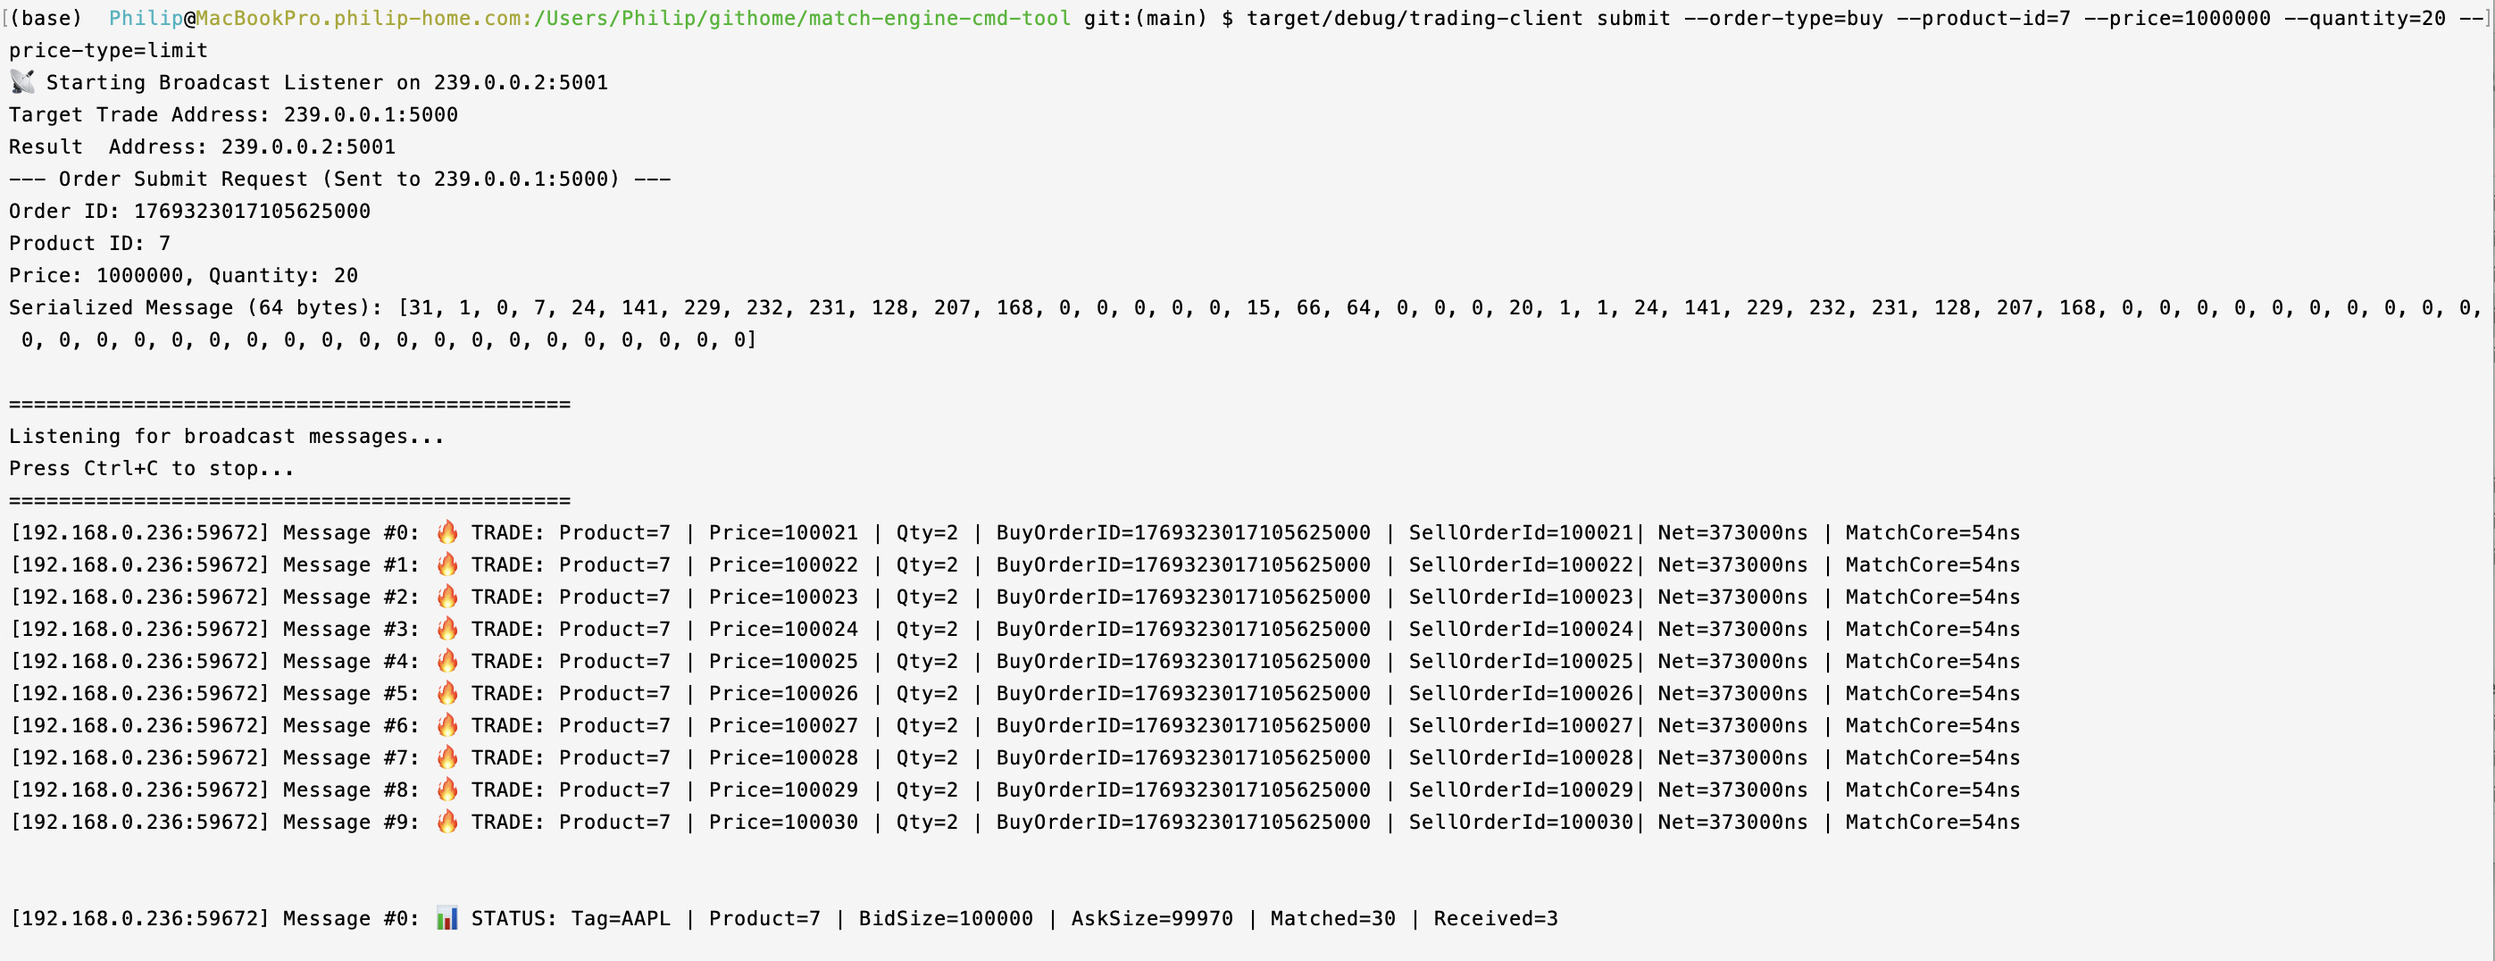
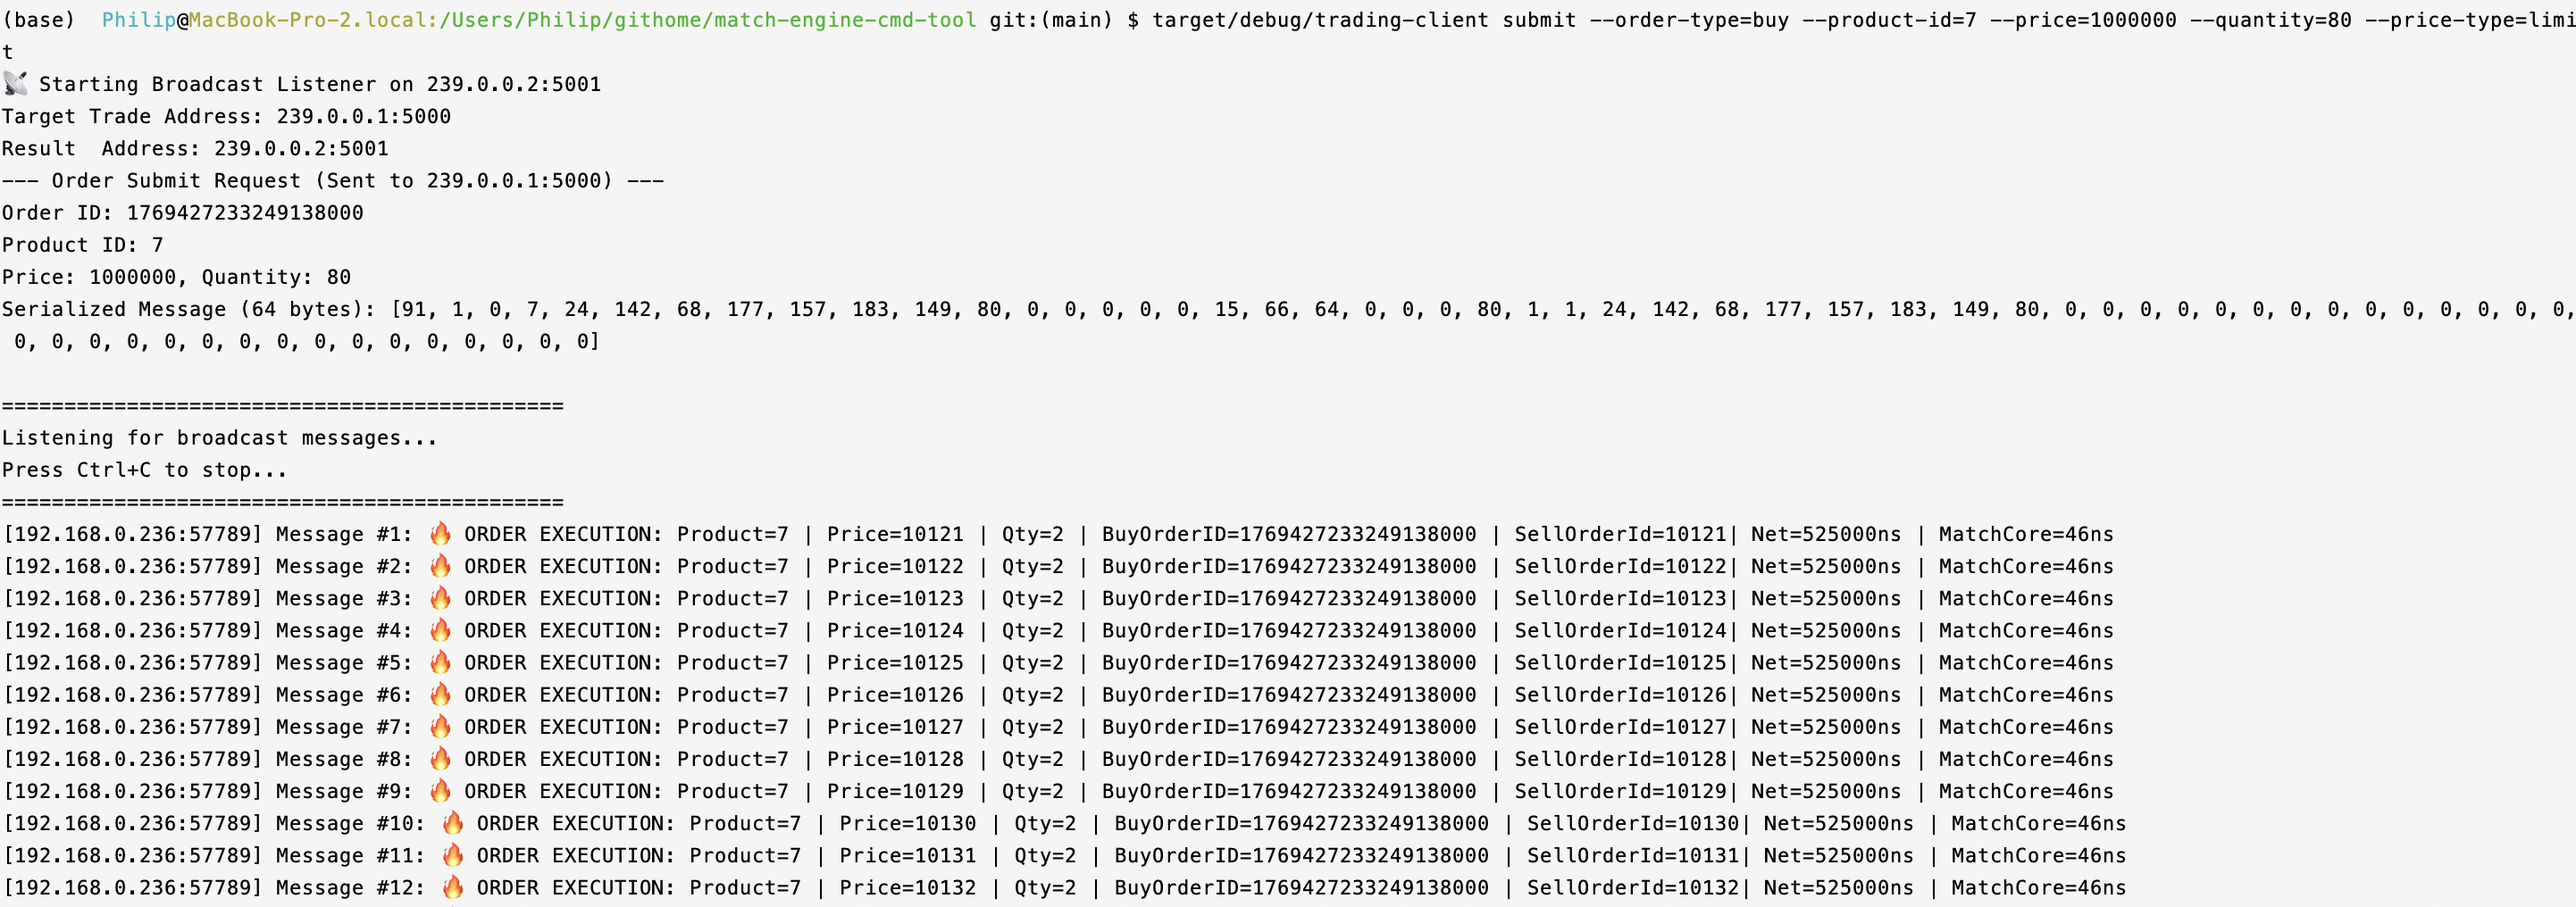
🚀fix terms on image

Changed region(s): [[0.0, 0.0, 1.0, 1.0]]

diff --git a/README.md b/README.md
@@ -59,7 +59,7 @@ Get up and running in minutes!
 
 ![test screen shot ](docs/test-screen-shot.png)
 
-  That's an internal match time(core-matching latency) of just **54 nanoseconds** with 1M asks and bids respectively on An Apple M1 Max Macbook Pro.
+  That's an internal match time(core-matching latency) of just **46 nanoseconds** with 1M asks and bids respectively on An Apple M1 Max Macbook Pro.
 
 ## ⚙ How It Works
 
